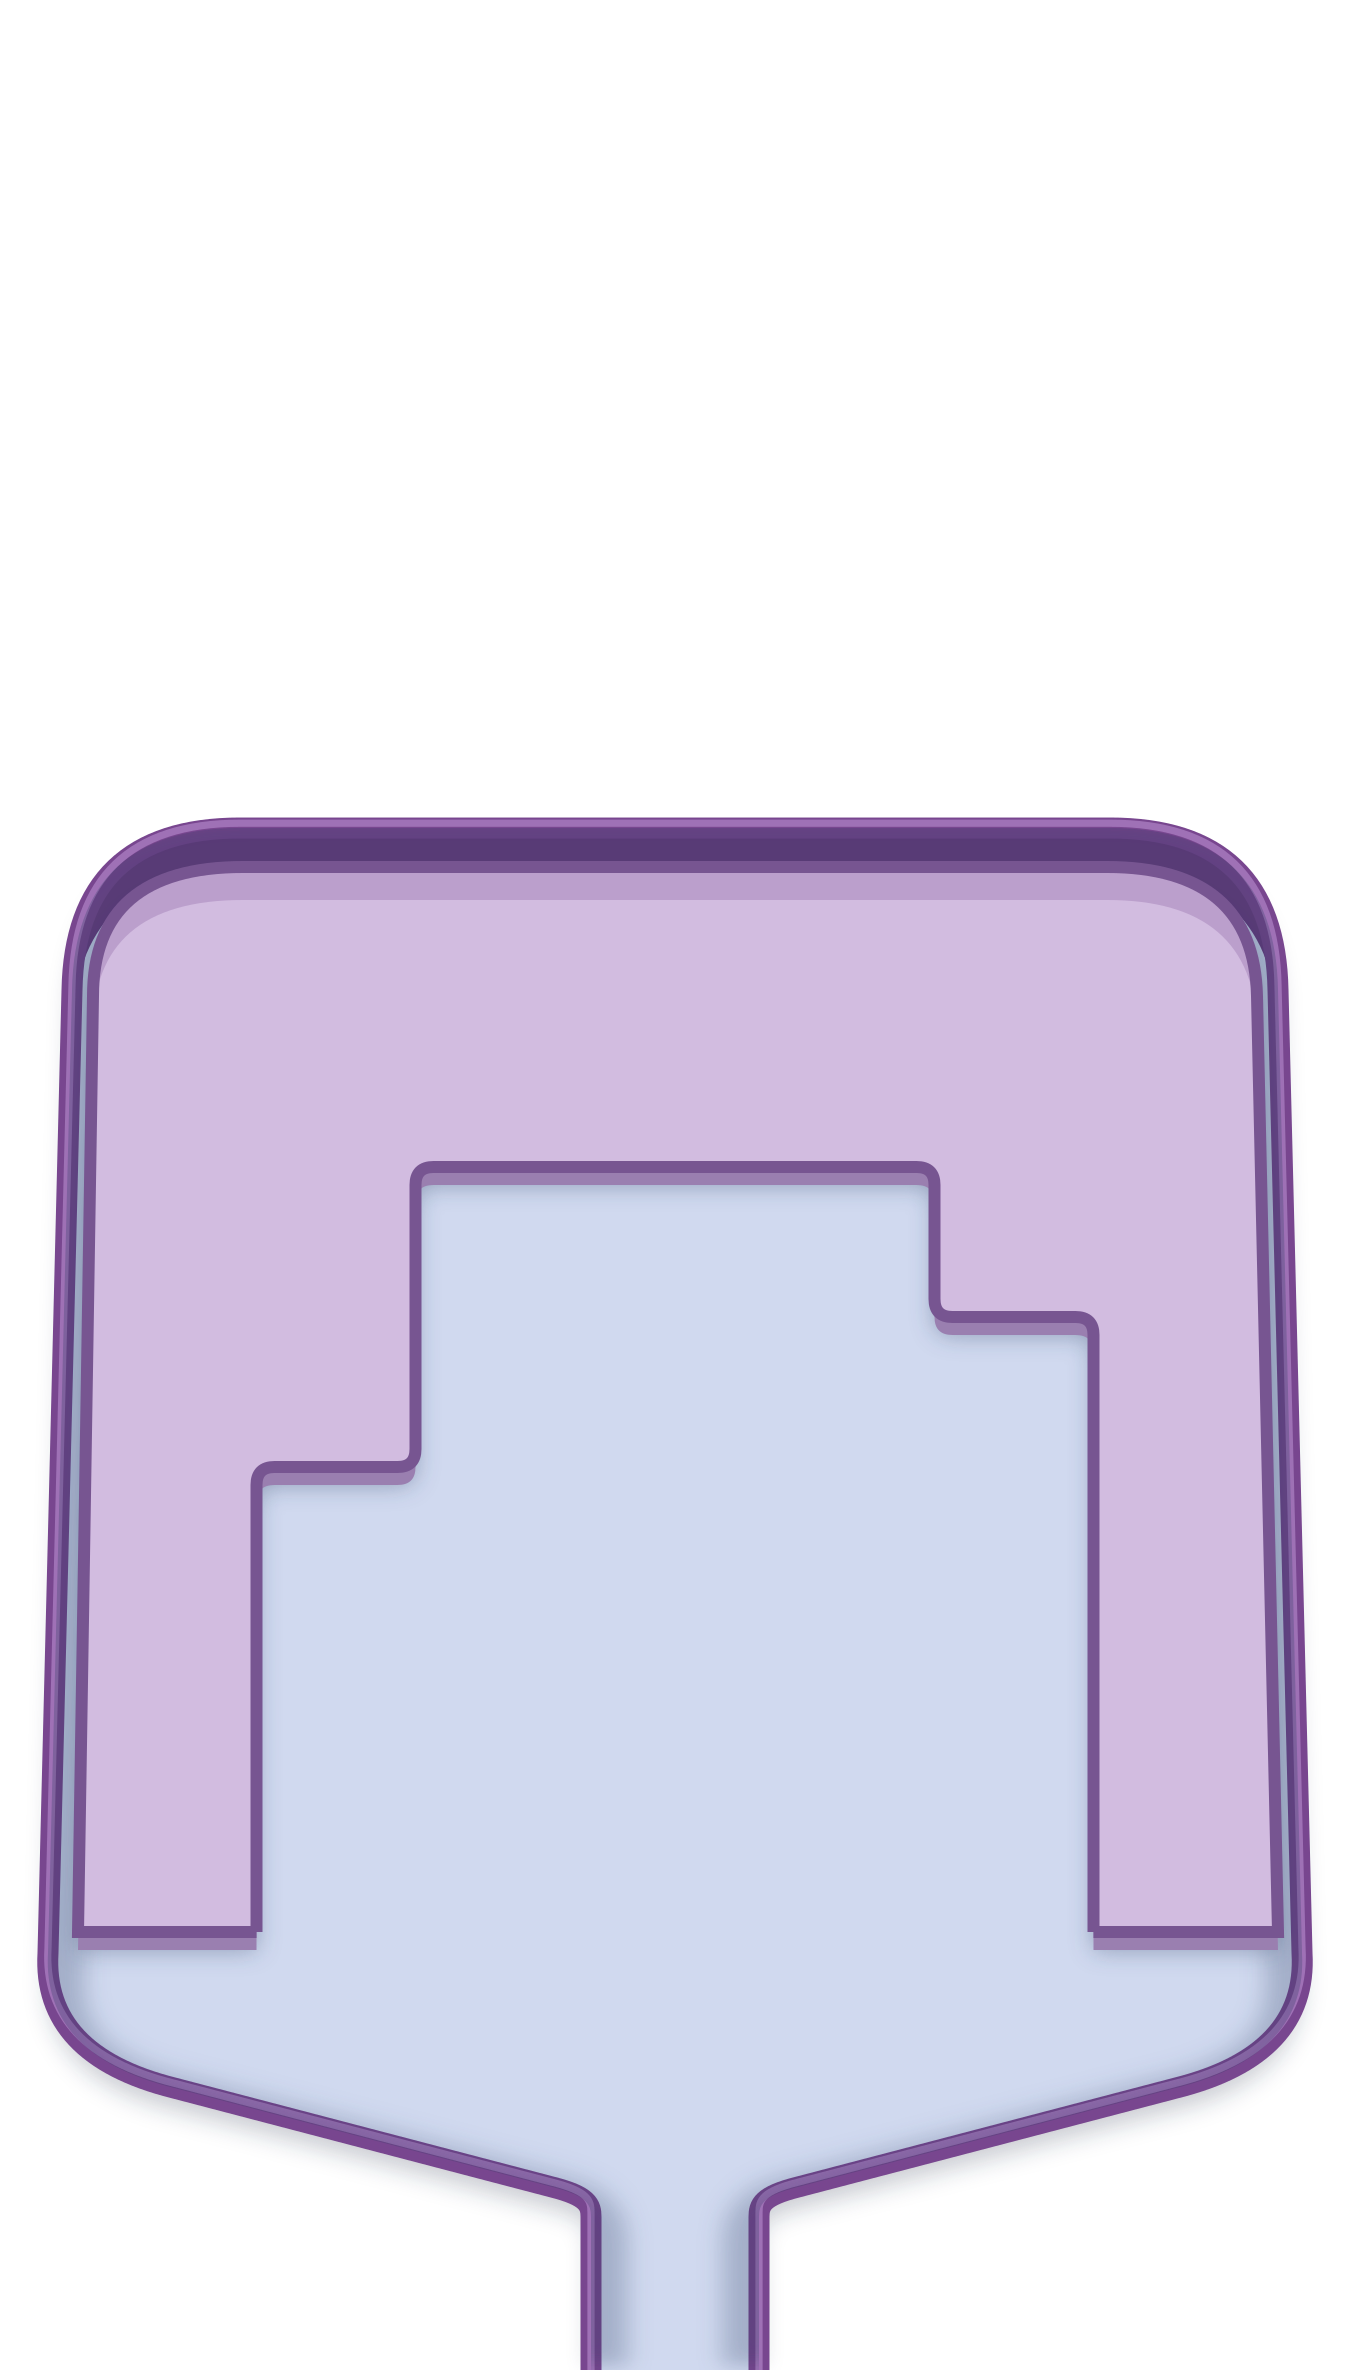
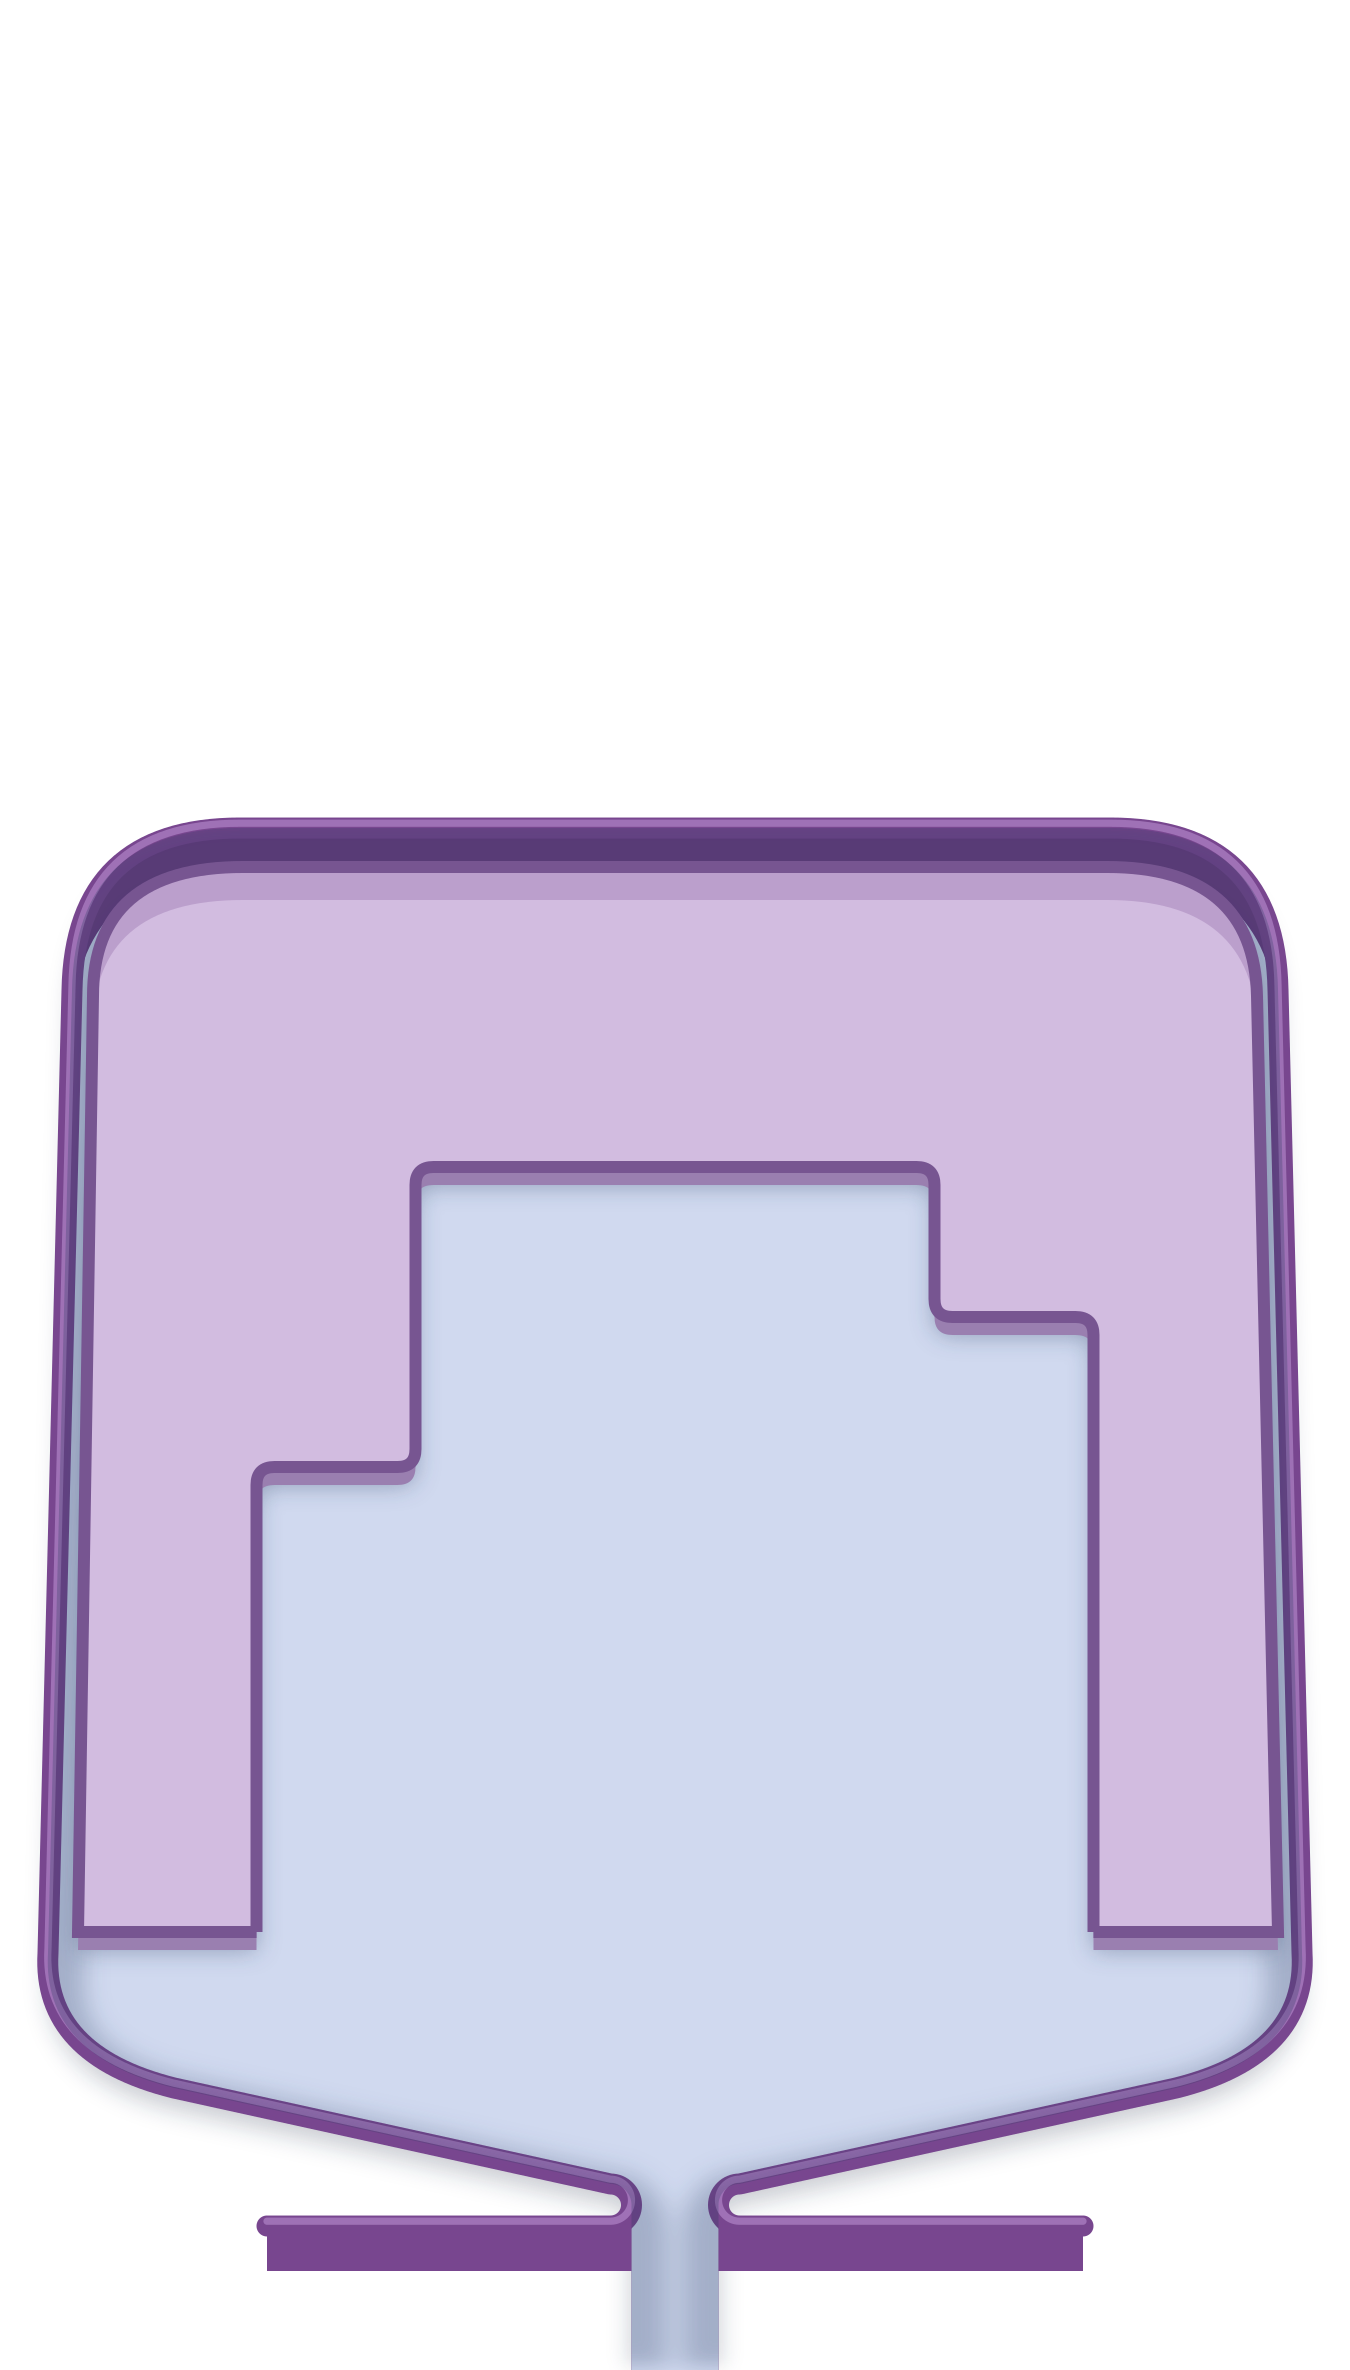
Narrow the funnel mouth and deepen the belt housing
The throat now admits a single sphere, in physics and art alike. Ramps
end in teardrop noses with solid fronts, and the sphere nearest the
outlet is eased toward the centre so two spheres cannot lock into an
arch. The belt housing gains a three-tone inner wall face, a stronger
inner shadow and a drop shadow. Funnel stress, dense belt and full
level smoke checks pass.

Changed region(s): [[0.1556, 0.8743, 0.84, 1.0]]

diff --git a/Assets/RollerSort/Scripts/RollerMotion.cs b/Assets/RollerSort/Scripts/RollerMotion.cs
@@ -2,11 +2,11 @@ using UnityEngine;
 namespace RollerSort {
  public sealed partial class RollerGame {
   const float MarbleRadius=BeltTrack.PaintedDiameter*.5f;
-  const float Gravity=1200f,GateY=738f,ThroatHalfWidth=28f;
+  const float Gravity=1200f,GateY=738f,ThroatHalfWidth=14.5f;
   const float TransferDuration=.155f;
   float ConveyorTurnsPerSecond=>-166f/BeltTrack.Length;
-  static readonly Vector2 LeftRampTop=new(-205,680),LeftRampEnd=new(-28,737);
-  static readonly Vector2 RightRampTop=new(205,680),RightRampEnd=new(28,737);
+  static readonly Vector2 LeftRampTop=new(-205,680),LeftRampEnd=new(-14.5f,737);
+  static readonly Vector2 RightRampTop=new(205,680),RightRampEnd=new(14.5f,737);
 
   bool BeltCannotProgress(){
    int circulating=0;
@@ -178,6 +178,17 @@ namespace RollerSort {
    for(int i=0;i<count;i++){var b=orderedBelt[i];b.phase=BeltTrack.FromPackingPhase(phase+orderedDistance[i]/BeltTrack.PackingLength);b.position=BeltPoint(b.phase);orderedBelt[i]=null;}
   }
 
+  // The throat admits one sphere at a time. Two spheres resting on opposite noses
+  // can lock into an arch, so the one nearest the outlet is eased toward the centre;
+  // the contact solve then lifts its neighbour aside.
+  void CentreThroatBall(){
+   Ball nearest=null;
+   foreach(var ball in balls){
+    if(ball.stage!=0||ball.age<0||ball.position.y<GateY-18||Mathf.Abs(ball.position.x)>ThroatHalfWidth+ball.radius)continue;
+    if(nearest==null||ball.position.y-Mathf.Abs(ball.position.x)>nearest.position.y-Mathf.Abs(nearest.position.x))nearest=ball;
+   }
+   if(nearest!=null)nearest.position.x=Mathf.MoveTowards(nearest.position.x,0,1.2f);
+  }
   void TryFeedBelt(){
    int transported=0;foreach(var ball in balls){if(ball.stage==3)return;if(ball.stage==1)transported++;}
    if(transported>=BeltTrack.SlotCount)return;
@@ -186,7 +197,7 @@ namespace RollerSort {
     if(ball.stage!=0||ball.age<0||ball.position.y<GateY-2.5f||Mathf.Abs(ball.position.x)>ThroatHalfWidth-ball.radius+1)continue;
     if(candidate==null||ball.position.y>candidate.position.y)candidate=ball;
    }
-   if(candidate==null)return;
+   if(candidate==null){CentreThroatBall();return;}
    float entryPhase=candidate.position.x/BeltTrack.Length;
    // One continuous cubic arc, with its exit tangent matching conveyor velocity.
    candidate.stage=3;candidate.age=0;candidate.phase=Mathf.Repeat(entryPhase,1);candidate.transferPhaseStart=entryPhase;candidate.seatStart=candidate.position;
